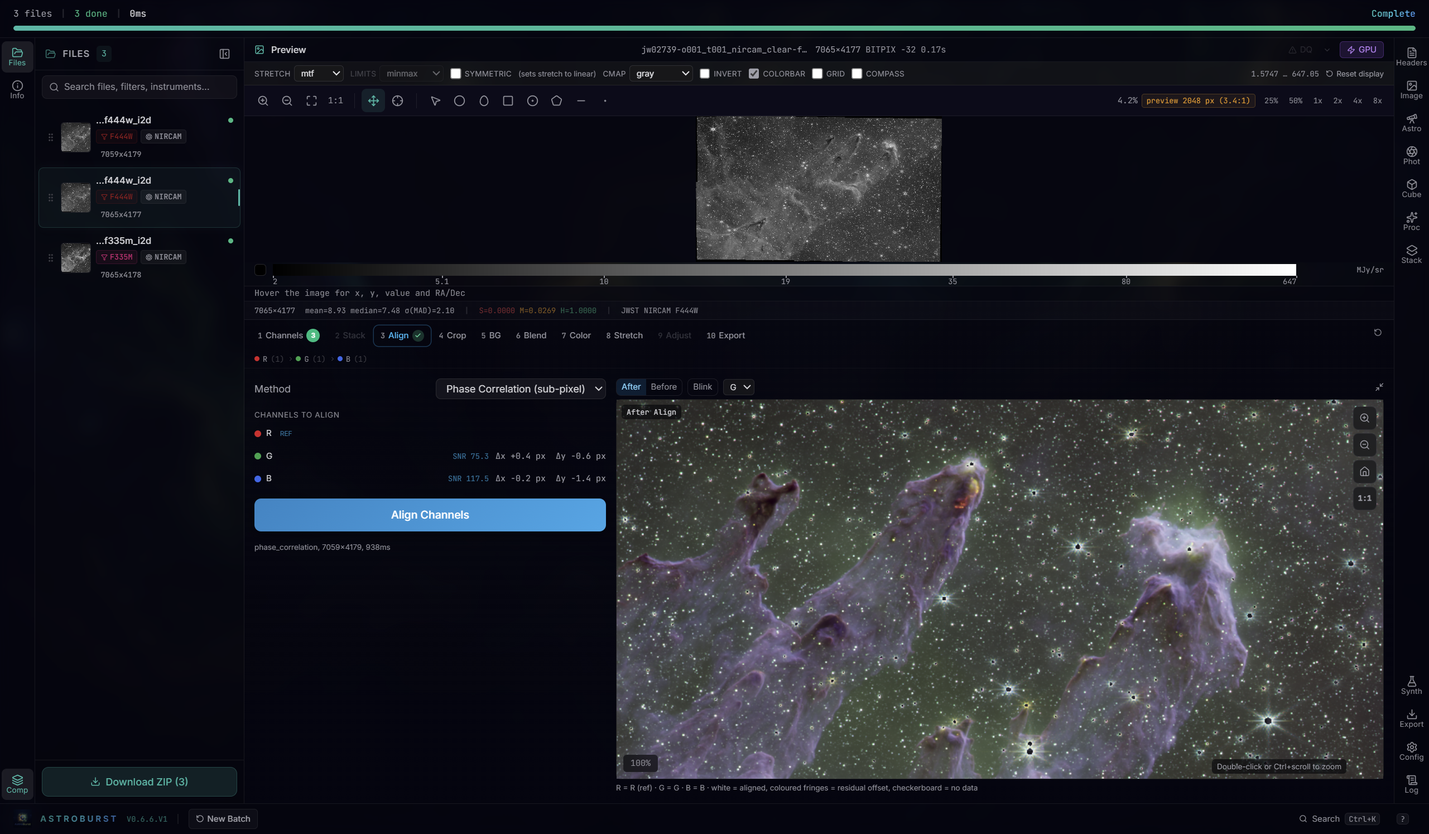
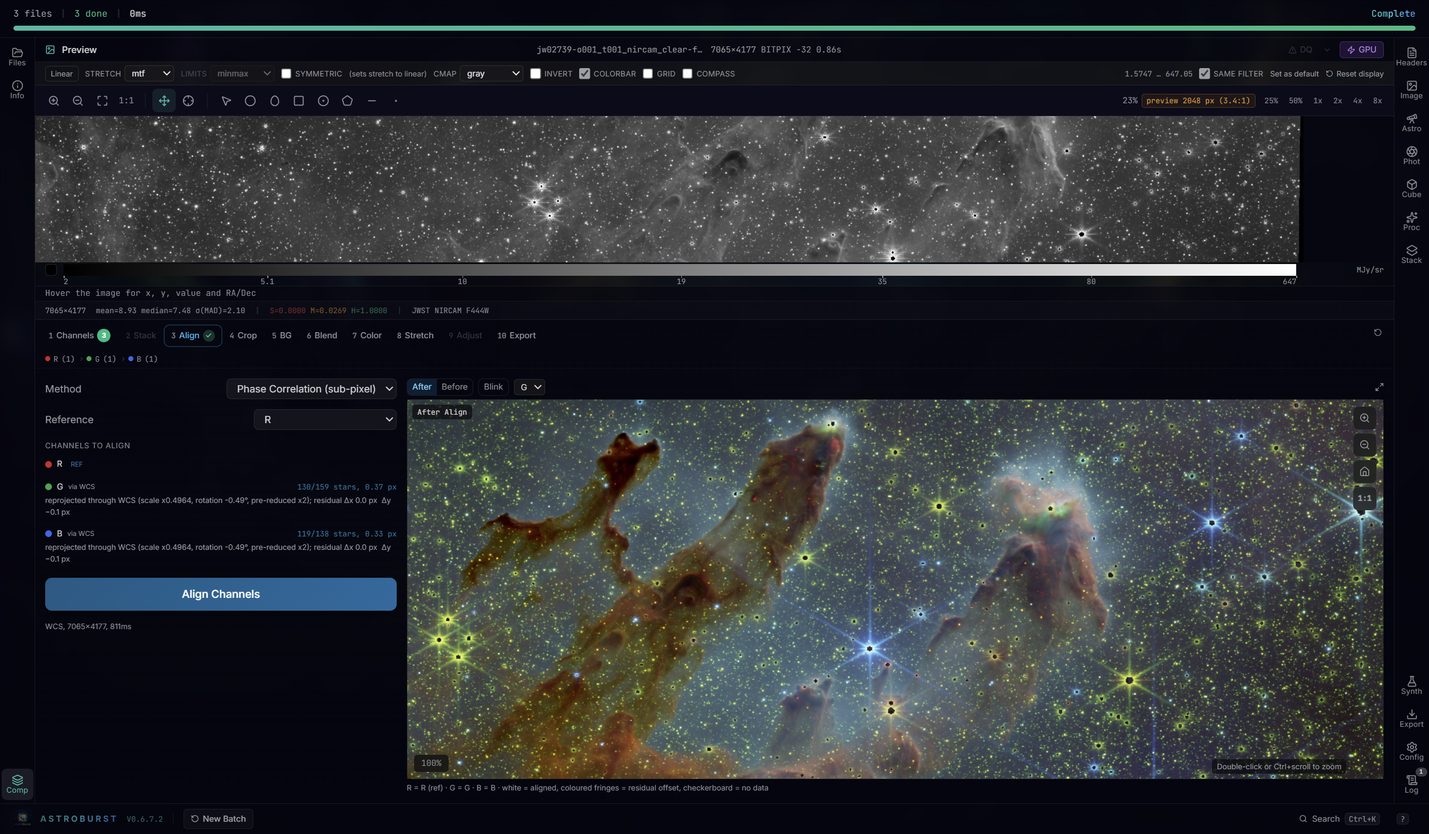
update readme

diff --git a/README.md b/README.md
@@ -30,10 +30,12 @@
 
 ---
 
+![AstroBurst tour: the JWST Pillars colour composite appearing and zooming in, colormap switches and one-click Linear on a MIRI image of M104, a tool window dragged into the bottom dock, the RA/Dec readout over a Roman WFI L2 image with its sky grid, and the Ne II 12.8 µm line in the spectrum of a MIRI MRS spaxel of M104](docs/screenshots/astroburst-tour.gif)
+
 <p align="center">
-  <img src="docs/screenshots/hero.png" alt="A JWST NIRCam colour composite of the Pillars of Creation filling the viewer, with the three input mosaics in the file list and the compose wizard step row below the image showing Channels, Align, Crop, Blend, Color and Stretch done" width="100%">
+  <img src="docs/screenshots/hero.png" alt="A JWST NIRCam colour composite of the Pillars of Creation filling the viewer, with the three input mosaics in the file list and the compose wizard step row below the image showing Channels, Align, Blend, Color, Stretch and Adjust done" width="100%">
 </p>
-<p align="center"><em>The Pillars of Creation from three JWST NIRCam long-wave mosaics (jw02739): F470N (the F444W-F470N file) to red, F444W to green and F335M to blue. The wizard aligned them by phase correlation on the 7059&times;4179 grid (G +0.4/&minus;0.6&nbsp;px, B &minus;0.2/&minus;1.4&nbsp;px), cropped them to 7051&times;4170, blended them with Match levels, kept neutral 1/1/1 colour weights and stretched them with a linked Auto STF, then a shadow of 0.0017 and a midtone of 0.0032. The step row shows Channels, Align, Crop, Blend, Color and Stretch done. The viewer is at 16% with the "preview 2048&nbsp;px (3.4:1)" badge, and the status strip says there is no pixel readout for the colour composite.</em></p>
+<p align="center"><em>The Pillars of Creation from three JWST NIRCam mosaics (jw02739): F444W to red, F200W to green and F090W to blue. Align reprojected the F200W and F090W mosaics onto the 7065&times;4177 F444W grid through their WCS; Blend matched their levels to F444W (<code>g F200W x2.121 -3.540, b F090W x4.709 -4.721</code>); Color kept 1/1/1 weights with SCNR at 50%, SPCC being disabled for these infrared filters; Masked Stretch set the background to 0.18 and one Adjust curve finished it. The step row shows Channels, Align, Blend, Color, Stretch and Adjust done, with Crop and BG not run. The viewer is at 19% with the "preview 2048&nbsp;px (3.4:1)" badge, and the status strip says there is no pixel readout for the colour composite.</em></p>
 
 **Latest:** 0.6.7.0. Since 0.6.0: 0.6.1 kept the CPU and GPU previews on the same image after every processing step, and 0.6.2 added a measurement round (aperture and batch photometry, calibrated region fluxes, sky geometry, spectral line measurement, contours, surface-brightness profiles, time-series photometry, a pixel table). 0.6.3 added a second science round (rest-frame line list, spectrum export and comparison, observation geometry with BJD_TDB, position-velocity diagrams, diverging colormaps with symmetric limits, a measurement log), fixed the Deep Zoom viewer and SPCC in the compose wizard, added a Delete points button for Point regions, and closed an interface round of 30 fixes and 22 improvements. 0.6.4 let the Processing tab work on the colour composite built in Compose, with its own processing chain and a revert to the original, and fixed the dark discs Masked Stretch left around stars. 0.6.5.0 added dockable tool windows, an Align overlay and a Crop editor in the compose wizard, Match levels for narrowband blends, the JWST pipeline x1d in the spectrum comparison, a wavelength readout for NIRSpec `_cal` frames, exclude regions, a colorbar and Write WCS after a plate solve. 0.6.6 added per-spaxel line-fit kinematic maps for IFU cubes with a spaxel inspect plot, JWST `_uncal` ramps with a quick-look slope compared against the official `_rate`, Brα, Brβ, Pfβ and He I 2.0587&nbsp;µm in the rest-frame line list, and synthetic stacks that vary from frame to frame and list each frame in a manifest; 0.6.6.3 split Analysis into five dock tools and closed a round of fixes. 0.6.7.0 evaluates the gWCS of JWST `_cal` and Roman `_cal.asdf` images, requires a celestial `CTYPE` pair before reading sky coordinates, checks calibration frames before any master is built (with flat-dark masters, darks grouped by sensor temperature and stack provenance cards), reprojects compose channels through their WCS, matches channel levels by median and MAD, evaluates SPCC's blackbody approximation at the channel filter wavelengths, adds Curves and Geometry to the Processing tab, a photometry gain model, a disk cache for Gaia DR3 cones and `-TAB` spectral axes. Full history in [CHANGELOG.md](CHANGELOG.md).
 
@@ -86,6 +88,11 @@ Region statistics, cutouts, histograms and rendering are available on the headle
 
 **Tool windows.** The tools dock in four groups, Left Top and Bottom Left on the left strip, Right Top and Bottom Right on the right one, and two tools can share the bottom area side by side. Drag an icon to another group or position and a preview shows where its panel will open; right-click it, or press Shift+F10 on a focused icon, for Move to, Move up, Move down and Reset layout. The layout, the open panels and their sizes are kept across sessions. On first launch a tips card at the top right of the viewer (`Arrange your tool windows`) animates the two moves: an icon dropped on the top half of a strip opens as a full-height column, one dropped on the bottom half opens under the viewer. It does not take the focus, stays still under reduced motion and does not come back once closed or once a tool has been moved to another group; Show layout tips in the right-click menu and Show tool window tips in the command palette open it again.
 
+<p align="center">
+  <img src="docs/screenshots/16-dock-onboarding.png" alt="The JWST NIRCam F444W-F470N mosaic of the Pillars in magma with the Arrange your tool windows tips card at the top right of the viewer, on step 1 of 2, and the Image tool open at Right Top" width="100%">
+</p>
+<p align="center"><em>First launch: the <code>Arrange your tool windows</code> card appeared at the top right of the viewer about 2&nbsp;s after the F444W-F470N mosaic of the Pillars (jw02739) opened. Step 1 of 2, Drag vertically, animates an icon moved to Right Top and says that a tool dropped on the top half of either strip opens as a full-height column beside the viewer, and that right-click (or Shift+F10) gives Move to&hellip; and Reset Layout puts everything back. The Image tool is open at Right Top.</em></p>
+
 ### Data quality and units
 
 <p align="center">
@@ -101,6 +108,16 @@ The DQ overlay and DQ exclusion are desktop-only. The server pixel endpoint retu
 
 **WCS.** Header WCS is handled by the [wcs](https://github.com/cds-astro/wcs-rs) crate (about twenty FITS projections, CD/PC/CDELT conventions) with SIP distortion applied in the wrapper; see [ADR 0001](docs/adr/0001-wcs-rs-for-wcs-engine.md). A celestial WCS needs a longitude/latitude `CTYPE1`/`CTYPE2` pair (RA/DEC, GLON/GLAT or ELON/ELAT, longitude first) with one projection; a header without one, such as a 2-D spectrum with only `CRPIX`, `CRVAL` and `CDELT`, gets no sky coordinates, and the no-WCS note names the reason. The generalized WCS that the JWST and Roman pipelines store in ASDF (the `ASDF` extension of a JWST `_cal` or `_crf` FITS, `roman.meta.wcs` of a Roman `_cal.asdf`) is evaluated transform by transform in f64 (polynomial distortion, mappings, affine and 3-D rotations, the gnomonic projection, the arithmetic operators of the tweakreg correction), with stored inverses where present, an exact inverse refined by Newton iteration otherwise, and the pipeline's bounding box; the readouts, grid, compass, Targets, catalogs, photometry, regions, cutouts, SPCC, Compose Align and the server routes all use it. A JWST `_cal` keeps its header TAN-SIP as the fallback and the Info line reports the gap between the two (`header SIP within 0.009 px (0.27 mas)` on a NIRCam `_cal`); a Roman image gets a TAN-SIP header fitted to its gWCS to 0.01&nbsp;px, so cutouts and other derived FITS keep a WCS. `_i2d` mosaics, `_rate` frames and cubes keep their header WCS, and a gWCS with a transform the evaluator does not handle (`tabular`, `fix_inputs`, JWST pipeline models) falls back to the header with the reason on the Info line. The evaluator is compared in the test suite with gwcs 1.0.3 on NIRCam, MIRI, FGS and NIRISS fixtures committed under `src-tauri/tests/fixtures/gwcs`. `SIPMXERR` and `SIPIVERR`, the residual the JWST pipeline writes for its TAN-SIP fit, are shown at the end of the Info orientation line and rescaled by drizzle and resample. The server `wcs` route reports which WCS is in use (`wcs_kind`, the gWCS steps and frames, the gap to the header SIP, a refusal reason).
 
+<p align="center">
+  <img src="docs/screenshots/17-gwcs-miri-f770w-cal.png" alt="A JWST MIRI F770W cal frame of the Pillars at 220% in magma with a rotated ICRS grid and compass, beside the Info tool at Left Top with the gWCS orientation line, the hovered pixel value with its error and DQ flag, and the header lines" width="100%">
+</p>
+<p align="center"><em>A MIRI F770W <code>_cal</code> frame of the Pillars (jw02739002001_02101_00001_mirimage, 1032&times;1024) at 220%, asinh a 0.08 over the 2-99.9 percentile (74.69 to 387.13&nbsp;MJy/sr) in magma, with the ICRS grid and the compass rotated with the frame. The Info tool at Left Top reads <code>gWCS (3 steps: detector→v2v3→v2v3vacorr→world) - 0.110"/px x 0.111"/px - rot -97.2 deg - E left - header SIP within &lt;0.001 px (0.00 mas)</code>. The hovered pixel (560, 260) reads 85.3377 &plusmn; 0.2747&nbsp;MJy/sr, DQ 0 (GOOD), with a 5&times;5 box median of 84.9410, at RA 18h18m56.95s Dec &minus;13°49′32.7″.</em></p>
+
+<p align="center">
+  <img src="docs/screenshots/18-gwcs-roman-l2.png" alt="A simulated Roman WFI F129 L2 image opened as native ASDF, an edge-on galaxy at 80% in inferno with an ICRS grid and compass, beside the Info tool with the gWCS orientation line and the ROMAN and WFI header lines" width="100%">
+</p>
+<p align="center"><em>A simulated Roman WFI F129 L2 image opened as native ASDF (r9999901001001001001_0001_wfi01_f129_cal.asdf, 4088&times;4088), at 80% on an edge-on galaxy, asinh a 0.03 over the 62-99.99 percentile (0.2316 to 2.0277; the file has no unit) in inferno, with the ICRS grid and a 15″ compass bar. The Info line reads <code>gWCS (3 steps: detector→v2v3→v2v3vacorr→world) - 0.110"/px x 0.108"/px - rot 0.1 deg - E left - header SIP within &lt;0.001 px (0.00 mas)</code>, above TELESCOP ROMAN, INSTRUME WFI and EXPTIME 135.98622&nbsp;s. The hovered pixel (2010, 2030) reads 0.4732, DQ 0 (GOOD), at RA 04h49m41.31s Dec &minus;30°39′53.2″.</em></p>
+
 ### Colour calibration
 
 Colour calibration, labelled SPCC (blackbody approximation), matches the detected stars against a Gaia DR3 cone search through VizieR (the `vizier` feature, on by default), turns each star's BP&minus;RP colour into an effective temperature and solves the channel gains against a blackbody evaluated at the wavelengths of the filters feeding R, G and B, relative to the chosen white reference. A line above the white reference names the wavelengths (`Blackbody approximation at R/G/B 814/555/435 nm (from the channel filters)`); 640/530/460&nbsp;nm are used only when a filter is unknown, with a note, and wavelengths outside 300-1200&nbsp;nm are refused. It does not use Gaia XP spectra or filter transmission curves. The cone goes through the catalog disk cache, and SPCC falls back to a synthetic catalogue when the feature is off or the query fails, saying which one it used. In the compose wizard SPCC reads the WCS from each channel and refuses a channel without a celestial one, and it is offered for broadband visible RGB only: when an input is narrowband, medium-band or outside 380-830&nbsp;nm (the JWST infrared filters, for example), the white-balance option reads "SPCC (broadband RGB only)", is disabled, the reason below it names the filter, and SCNR is not switched on by itself. Auto white balance picks the channel with the lowest noise (MAD over median) as the reference rather than always green. SCNR removes green excess and redistributes the lost luminance to red and blue with BT.709 weights.
@@ -108,18 +125,23 @@ Colour calibration, labelled SPCC (blackbody approximation), matches the detecte
 ### Compose wizard
 
 <p align="center">
-  <img src="docs/screenshots/05-compose-align-overlay.png" alt="The Align step of the compose wizard on the JWST NIRCam Pillars trio, with the phase-correlation offsets of the green and blue channels and the After overlay of the aligned channels at 1:1 on the pillar tips" width="100%">
+  <img src="docs/screenshots/05-compose-align-overlay.png" alt="The Align step of the compose wizard on the JWST NIRCam Pillars trio, with Reference R, the green and blue channels reprojected through their WCS with their residuals, and the After overlay of the aligned channels at 1:1 on the upper pillars, under the F444W mosaic on the viewer" width="100%">
 </p>
-<p align="center"><em>The Align step of the hero composite. Phase correlation (sub-pixel) shifted G by +0.4/&minus;0.6&nbsp;px (SNR 75.3) and B by &minus;0.2/&minus;1.4&nbsp;px (SNR 117.5) against R, on the 7059&times;4179 grid in 938&nbsp;ms. The After overlay, at 1:1 on the 2048&nbsp;px preview and panned to the pillar tips, draws the aligned channels in colour: white where they line up, coloured fringes where an offset remains, checkerboard where there is no data. After, Before, Blink and the channel choice sit above it.</em></p>
+<p align="center"><em>The Align step of the hero composite, with Compose at Bottom Left under the F444W mosaic. With Reference R (F444W), G (F200W) and B (F090W) were reprojected onto the 7065&times;4177 F444W grid through their WCS (scale x0.4964, rotation &minus;0.49°, pre-reduced x2), with residuals of 0.0/&minus;0.1&nbsp;px measured on 130 and 119 matched stars; both rows say <code>via WCS</code>. The Method select (Phase Correlation) is the fallback used only when a channel has no celestial WCS pair. The After overlay, at 1:1 on the 2048&nbsp;px preview and panned to the upper pillars, shows no coloured fringe on any star: the faint stars are yellow-green because they are bright in F444W and F200W and faint in F090W, and the saturated cores of the bright stars, NaN in the mosaics, draw black.</em></p>
 
 Ten steps: channels, stack, align, crop, background, blend, colour, stretch, adjust, export. Filters are detected from headers and mapped to channel bins by wavelength. Stacking uses the same rejection family as the Stack tab (sigma, Winsorized sigma, linear fit, percentile, min/max) with a subframe selector and optional drizzle. Align registers every channel to a reference, by default the channel with the finest WCS pixel scale; a REF select (Auto (finest pixel scale) or any channel) overrides it. When a channel and the reference both carry a celestial WCS, the channel is reprojected onto the reference pixel grid through it (bicubic, NaN outside its footprint, a finer channel box-reduced first when the reference is 1.5 times coarser or more), and the residual is measured on point sources matched across the field and applied only above 1&nbsp;px, because phase correlation on extended emission differs between filters; each row says how the channel was registered, and a residual above 5&nbsp;px or a channel outside the reference footprint is warned. Channels without a WCS pair are resampled by array size, with an amber note, and registered by sub-pixel phase correlation or star-based affine (triangle asterism with RANSAC, 2000 iterations) for rotation, with an automatic fallback chain of affine, rigid, phase correlation, identity; an unknown method name is refused. After Align, a colour overlay of the aligned channels against the reference (aligned stars come out white, residual offsets as coloured fringes), with After/Before, a blink, zoom and 1:1, shows how well they line up, and Crop draws a draggable, resizable box over the aligned channels, pre-set to the auto-detected borders; with a single filled channel, Crop opens without an Align run and crops that channel. Background correction has four families: per-channel polynomial surface, linked shared gradient, neutralize (sky pedestal only) and de-band for 1/f striping (rows, columns, both or an auto-detected axis), offered as seven options in the selector; de-band is refused on dispersed JWST exposures, whose rows and columns are spectra, and on undebayered Bayer mosaics. Blend presets (SHO, HOO, Dynamic HOO, Foraxx, Hubble Legacy, RGB, plus wavelength-spreading Auto and Balanced) resolve by spectral wavelength rather than bin order. Match levels, on by default when a narrowband filter is loaded, gives each channel the median and the MAD of the channel with the largest MAD (a scale and a pedestal per channel) before blending, so the planes start from equal backgrounds and equal diffuse-signal spreads and one bright filter does not swamp the others; the summary and the FITS history record each channel's factors (`Level match: r F200W x9.574 -8.953, g F187N x1.000 +0.000, b F090W x20.89 -13.39`), and with SPCC selected a note says the background stays neutral after SPCC only if its factors are equal. The Blend preview unlinks its STF when the blended channel medians differ by more than 3&sigma; or by a ratio above 1.5, and a note says that Preview, Adjust and the PNG export use an unlinked auto-STF while the composite FITS data are unchanged. Stretch offers star removal (starless image plus a separate stars layer; it clears Stretch, Adjust and Export so they are rerun on the starless image), masked stretch with star protection, GHS, arcsinh and linked or per-channel STF.
 
 Adjust applies monotone Fritsch-Carlson spline tone curves. The composite is non-destructive: white balance and SCNR always reconstruct from an immutable original cache. Export before Blend writes the channels with the fixed R/G/B mapping of their bins and without the Blend weights, and a banner and the FITS header say so (`No composite yet: exporting the fixed mapping R=SII G=Hα B=OIII. Your Blend weights are not applied; run Blend to export the composite.`).
 
 <p align="center">
-  <img src="docs/screenshots/06-compose-blend-match-levels.png" alt="The Blend step on the three HST/WFPC2 narrowband frames with the SHO (Hubble) preset, the channel weight sliders, Match levels switched on and the level-match scales of each filter, beside the colour composite" width="100%">
+  <img src="docs/screenshots/06-compose-blend-match-levels.png" alt="The Blend step on the JWST NIRCam Pillars trio with the Auto preset, the channel weight sliders, Match levels switched on and the level-match factors of each filter, beside the linear composite shown through the preview auto-STF" width="100%">
 </p>
-<p align="center"><em>The Blend step on the three HST/WFPC2 narrowband frames that ship with the app (502, 656 and 673&nbsp;nm), with the SHO (Hubble) preset and Match levels on. The scales are printed under Run Blend: <code>Level match: r F673N x3.480, g F656N x1.000, b F502N x14.56</code>, so [SII] and [OIII] are raised to the level of H&alpha; instead of being swamped by it. Compose has been moved to the right column; the composite is shown at 51%.</em></p>
+<p align="center"><em>The Blend step of the hero composite, with Compose moved to Right Top: the Auto (&lambda;) preset sends each aligned channel to its own colour (R&rarr;100%R, G&rarr;100%G, B&rarr;100%B) and Match levels is on. The factors are printed under Run Blend, a scale and a pedestal per channel: <code>Level match: r F444W x1.000 +0.000, g F200W x2.121 -3.540, b F090W x4.709 -4.721</code>, 3 channels of 7065&times;4177 in 462&nbsp;ms. The viewer shows the linear blend through the preview auto-STF at 19%.</em></p>
+
+<p align="center">
+  <img src="docs/screenshots/19-m104-miri-composite.png" alt="A colour composite of the Sombrero galaxy M104 from three JWST MIRI mosaics rotated by 90 degrees, filling the viewer, with the three rotated files in the file list and the compose step row showing Align, Blend, Color, Stretch and Adjust done" width="100%">
+</p>
+<p align="center"><em>The Sombrero, M104, from three MIRI mosaics (jw06565): F1280W to red, F1130W to green and F770W to blue. Each <code>_i2d</code> was first turned 90° clockwise with Processing › Geometry into a 3917&times;2247 <code>_rot90</code> file with its WCS updated. Align reprojected G and B through their WCS (scale x1.0000, residuals within 0.1&nbsp;px on 77 and 86 matched stars), Blend matched their levels (<code>g F1130W x2.050 -19.46, b F770W x2.842 +15.63</code>), Color kept 1/1/1 with SCNR at 50% (SPCC disabled for F1280W), and a Masked Stretch to a background of 0.12 and one Adjust curve finished it. The viewer is at 35% with the "preview 2048&nbsp;px (1.9:1)" badge; the dark notches at the top left and bottom right are the mosaic's NaN edges.</em></p>
 
 ### Processing
 
@@ -134,12 +156,12 @@ Adjust applies monotone Fritsch-Carlson spline tone curves. The composite is non
 
 **Multiscale and local contrast.** A-trous wavelet denoise with per-scale thresholds and a PixInsight MLT-style per-scale detail bias; Local Histogram Equalization (CLAHE on lightness with kernel radius, contrast limit, 8/10/12-bit histograms and blend amount) and HDR Multiscale Transform (2 to 8 layers, overdrive, inverted mode, star-core deringing) for stretched images and the RGB composite. Richardson-Lucy deconvolution (FFT-based, Tikhonov regularization, deringing) with a synthetic or empirical PSF, and empirical PSF estimation with moment-based FWHM. OSC debayer (RGGB, BGGR, GRBG, GBRG, honouring XBAYROFF and YBAYROFF). Every processing step feeds the next one in the chain and the result is shown on the GPU viewer as well as on the CPU path. On the colour composite, LHE and HDRMT work on the luminance of the stretched RGB image and keep its hue.
 
-<p align="center">
-  <img src="docs/screenshots/08-hdrmt-compare.png" alt="The HDR multiscale transform in composite mode on the WFPC2 colour composite, with its layers, iterations and overdrive controls, result cards and a composite/HDRMT wipe" width="100%">
-</p>
-<p align="center"><em>The HDR multiscale transform in composite mode on the WFPC2 colour composite: as the banner says, it compresses the stretched RGB composite on its luminance and preserves hue, and 656nmos.fits is not changed. 6 layers, 1 iteration, 0% overdrive, applied to lightness, 0.18&nbsp;s on the 1501&times;1532 composite. The Composite/HDRMT wipe below the result cards shows what it changed.</em></p>
-
 **Curves and geometry.** Curves applies levels (black point, gamma, white point) and a monotone tone curve to a mono or RGB FITS, as a chain step after LHE and HDRMT and before PixelMath. A linear image is first brought to display with its own auto-STF (one linked STF for RGB), the output `<stem>_tone.fits` is marked display-referred (`ABDISP=T`) with the STF, levels and curve in its `HISTORY`, NaN padding stays NaN, and an identity setting and cubes are refused; on the colour composite the panel points to Compose › Adjust. Geometry rotates by 90° clockwise, 180° or 90° counter-clockwise, or flips horizontally or vertically, and writes `<stem>_<op>.fits` to the Files list with `CRPIX`, the CD matrix, the SIP coefficients, `LTV`/`LTM` and the Bayer pattern remapped exactly and stale orientation cards removed. RGB FITS are transformed per plane, ERR and DQ are not carried, cubes are refused, and there is no arbitrary angle.
+
+<p align="center">
+  <img src="docs/screenshots/08-curves-linear-geometry.png" alt="The Curves panel of the Processing tool with black point, gamma and white point sliders, the tone curve, result cards and an Original/Curves wipe, beside the Geometry-rotated MIRI F770W mosaic of M104 in magma with the Linear display" width="100%">
+</p>
+<p align="center"><em>Curves on the MIRI F770W mosaic of M104 (jw06565) after Geometry rotated it 90° clockwise into <code>jw06565-o001_t001_miri_f770w_i2d_rot90.fits</code> (3917&times;2247, WCS updated): black point 0.020, gamma 1.15, white point 0.985 and an S curve through (0.25, 0.18) and (0.60, 0.72), applied in 0.14&nbsp;s, with the Original/Curves wipe under the result cards. The display is Linear (linear stretch, min/max 0 to 1, magma), which shows the display-referred result as it is; the rotated file opened with that look, taken from the original F770W file through Same filter.</em></p>
 
 **PixelMath.** A per-pixel expression language over the target image (`$T`) and named image slots bound to loaded files (`A`, `B`, ...): arithmetic, comparison and logical operators, `iif`, `~` inversion, per-pixel functions (abs, sqrt, exp, ln, log, log2, pow, min, max, floor, ceil, round, trunc, sign, clip, rescale) and image statistics (mean, med, mdev, sdev, adev, min, max) over finite pixels. NaN propagates, output goes to a new file with `ABPROC` and `PMEXPR` provenance cards, and slots for the symbols you type are bound to the loaded files automatically.
 
@@ -155,9 +177,9 @@ Adjust applies monotone Fritsch-Carlson spline tone curves. The composite is non
 **Catalogs.** Gaia DR3 cone search through VizieR with proper motions propagated from J2016.0 to the observation date, an overlay layer with labels, full-field cross-match of detected stars with astrometric residuals (median dRA/dDec, rms) and a photometric zero point in G, BP or RP with an optional colour term, RFC-4180 CSV export of rows, sources and matches, and a one-click copy of rows into Point regions for `.reg` export. The residuals and the zero-point fit are drawn as plots with a hover readout, wheel zoom, drag pan and CSV and PNG export, the same plot the analysis tools use for profiles, curves of growth, spectrum comparisons and light curves; when the header already carries a flux calibration, the zero point is labelled informational. Every cone result is kept on disk (`astroburst/catalog-cache` under the OS cache folder, 64&nbsp;MB, oldest files evicted first, no expiry since DR3 does not change), and the Catalog panel, SPCC and the photometry Gaia match look in memory, then on disk, then query VizieR, reporting which one answered; `ASTROBURST_CATALOG_CACHE_DIR` and `ASTROBURST_VIZIER_URL` move the folder and the endpoint.
 
 <p align="center">
-  <img src="docs/screenshots/10-astrometry-gaia-crossmatch.png" alt="Gaia DR3 catalogue markers on the JWST NIRCam F335M Pillars mosaic with an ICRS grid, the Astrometry tool with the cross-match summary, the astrometric residual plot and the zero-point plot with a colour term, and the Image tool histogram in Sky mode docked under the viewer" width="100%">
+  <img src="docs/screenshots/10-astrometry-gaia-crossmatch.png" alt="Gaia DR3 catalogue circles on a JWST FGS guider image of a dense LMC field at 100% with an ICRS grid, beside the Astrometry tool with the Gaia DR3 query, the cross-match summary and the astrometric residual plot" width="100%">
 </p>
-<p align="center"><em>A live Gaia DR3 query through VizieR on the Pillars F335M mosaic, in cividis with the ICRS grid: 154 of 289 rows land on the image (r&nbsp;=&nbsp;4.3&prime;, positions propagated to epoch J2022.63). The cross-match found 119 of 500 measured stars (500 is the measurement cap; 65,820 were detected) within 2.0&Prime;, with median residuals of 0.017&Prime; in RA and in Dec and an rms of 0.480&Prime; (n&nbsp;=&nbsp;119). The G-band zero point, 24.550 &plusmn; 0.145 from 110 stars with a colour term c(BP&minus;RP)&nbsp;=&nbsp;1.6884, is labelled informational because the image is already calibrated; the residual and zero-point plots are below the summary. Bottom left, the Image tool shows the histogram in Sky mode.</em></p>
+<p align="center"><em>A JWST FGS guider image of a dense LMC field (jw01476003004_02201_00001_guider2_i2d, 2046&times;2117) at 100% in gray with the ICRS grid, and a live Gaia DR3 query through VizieR: 203 of 354 rows land on the image (r&nbsp;=&nbsp;1.7&prime;, epoch J2022.85); amber circles are the rows the cross-match matched, cyan the others, and the saturated star cores, NaN in the file, draw black. The cross-match within 3.0&Prime; found 254 of 500 measured stars (44,321 detected). The residual plot shows a compact clump near dRA &minus;1.0&Prime;, dDec &minus;1.4&Prime; above a broad scatter, so the FGS WCS sits about 1.7&Prime; from Gaia DR3, and the overlay shows it directly: every circle is drawn the same distance to the left of its star. The median (&minus;0.310&Prime;, &minus;0.574&Prime;) and the rms of 1.330&Prime; mix the clump and the scatter.</em></p>
 
 **Spectra and cubes.** A full FITS spectral axis (WAVE, AWAV, FREQ and velocity kinds; `CDELT3`, `CD3_3` or `PC3_3`; lenient `CUNIT3`; `RESTWAV`/`RESTFRQ`; `SPECSYS`/`VELOSYS`) with air/vacuum conversion (Greisen et al. 2006) and optical, radio or relativistic velocity axes, plus a barycentric or heliocentric correction for ground-based headers from a low-precision analytic ephemeris (about 0.02 km/s), with spectra already in a rest frame recognised and spacecraft headers using `VELOSYS`. A `-TAB` spectral axis (`WAVE-TAB` with `PS3_0`/`PS3_1`, FITS WCS Paper III) is read from its `WCS-TABLE` extension with wcslib's interpolation rules, so spectra, line measurement, line-fit maps, moments and the x1d comparison use the tabulated wavelengths, with a note naming the table and column; a PV diagram of such a cube is written only when the table is linear to 1&nbsp;% of its step. For IFU cubes: region (aperture) spectra with annulus sky subtraction in native units and Jy, channel-range collapse from a brush on the spectrum plot, and M0/M1/M2 moment maps with a per-pixel continuum fit and SNR masking, written as 2D FITS with the celestial WCS kept. Cubes open through a memory-mapped lazy reader. The displayed channel is marked on the spectrum and changes with a double-click, the arrow keys or looping playback; a committed channel is published as a FITS frame, so regions, statistics, photometry and contours work on it. A click extracts a spectrum only on an image with the cube's spatial grid (the cube and its moment, collapse and line-fit maps) or on a ramp, never on a PV diagram.
 
@@ -208,12 +230,7 @@ Adjust applies monotone Fritsch-Carlson spline tone curves. The composite is non
 
 Star detection with flux, FWHM and SNR (it keeps the 200 brightest sources and says how many it found), a 64K-bin histogram with auto-STF over the full range or a Sky window from the median &minus; 5&sigma; to the median + 50&sigma;, and an FFT power spectrum complete the analysis tools. Analysis is five dock tools, each with its own icon in the strip: Image (histogram, statistics, pixels, regions, profiles, contours, FFT, deep zoom), Astrometry (star detection, plate solve, catalog, targets, observation geometry), Photometry (aperture photometry, the photometry table, time series), Cube (spectrum with moments and line fits, PV diagrams, ramps) and Log (the measurement log, with the entry count on its icon). Each one docks anywhere like the other tools, so Photometry can sit under the viewer while Astrometry stays in the side column, and the stars detected in Astrometry feed the Photometry table. When the selected file changes, an open Image or Cube switches to the one that fits the file (cubes and ramps on Cube) and remembers the one you picked per file; Image and Astrometry have a row of chips that jumps to their panels. Plate solving goes through astrometry.net and needs a free nova.astrometry.net API key entered in Settings; the scale range (0.8 to 1.25 times the header pixel scale) and the field centre are hinted from the header WCS when one exists, large images are auto-downsampled and the result is rescaled to full resolution. Plate Solve works on the image on screen, a stack or a processed result included, and its status, calibration and WCS requests are retried up to 3 times on transport errors and HTTP 5xx. Write WCS to image then saves a copy of that image with the astrometry.net TAN-SIP solution (`<name>_wcs.fits` in the output folder, which is emptied at every start, so export it to keep it) and shows it, so the grid, compass, Targets, photometry and the Gaia catalog use the new WCS; the button is disabled once the image on screen carries the solution. WCS handling is described under [WCS](#data-quality-and-units). A synthetic data generator produces star fields with configurable distributions, PSF models, a CCD noise model with an optional vignetting flat over stars and sky, a ground-truth catalogue CSV and a noise-free ground-truth image for validating photometry and alignment; stacks vary from frame to frame by default (dither, seeing, sky and transparency jitter, cosmic rays) and list each frame's offsets and factors in a `{prefix}_frames.csv` manifest, and every frame records its seed, field and PSF in the header, stack frames also their offsets, with `EGAIN` next to `GAIN` so the Photometry gain field prefills.
 
-<p align="center">
-  <img src="docs/screenshots/16-synth-stack-rejection.png" alt="A synthetic King cluster on the viewer, the eight generated frames in the file list, and the Stack panel with Winsorized sigma clipping, mean combination, additive scaling and saved rejection maps, with the stacking result card" width="100%">
-</p>
-<p align="center"><em>Generated data: the synthetic generator wrote 8 frames of 1024&times;1024 (a King cluster with a Moffat PSF, frames varied with a 3&nbsp;px dither, 10% seeing jitter and cosmic rays, seed 2026), and the Stack tab integrated them with Winsorized sigma clipping (sigma low 4, high 3, 5 iterations), mean combination and additive scaling, saving the low and high rejection maps: 96,260 pixels rejected.</em></p>
-
-Every screenshot above is in [`docs/screenshots/`](docs/screenshots) and was captured on the 0.6.6 build with the five analysis tools, before 0.6.7.0: the hero, Align and Blend captions show the 0.6.6 registration by phase correlation and the scale-only Match levels. The data are the HST/WFPC2 narrowband frames of the Pillars of Creation that ship with the app; the JWST NIRCam mosaics of the Pillars (jw02739); JWST NIRCam and MIRI imaging of M104 (jw06565); a JWST MIRI MRS cube of M104 (jw02016); JWST NIRSpec IFU data of the Galactic Centre (jw01266), both the G395H cube with its pipeline x1d and the detector-level <code>_uncal</code>, <code>_rate</code> and <code>_cal</code> frames; and synthetic frames from the built-in generator.
+Every screenshot above is in [`docs/screenshots/`](docs/screenshots). The hero, the tool-window tips, the two gWCS frames, Align, Blend, the M104 composite, Curves, the Gaia cross-match and the ramp were captured on the 0.6.7.2 build; the others on the 0.6.6 build with the five analysis tools. The data are the HST/WFPC2 narrowband frames of the Pillars of Creation that ship with the app; the JWST NIRCam mosaics and a MIRI F770W <code>_cal</code> frame of the Pillars (jw02739); JWST NIRCam and MIRI imaging of M104 (jw06565); a JWST MIRI MRS cube of M104 (jw02016); JWST NIRSpec IFU data of the Galactic Centre (jw01266), both the G395H cube with its pipeline x1d and the detector-level <code>_uncal</code>, <code>_rate</code> and <code>_cal</code> frames; a JWST FGS guider image of the LMC (jw01476); and a simulated Roman WFI L2 image.
 
 ## Install and build
 
